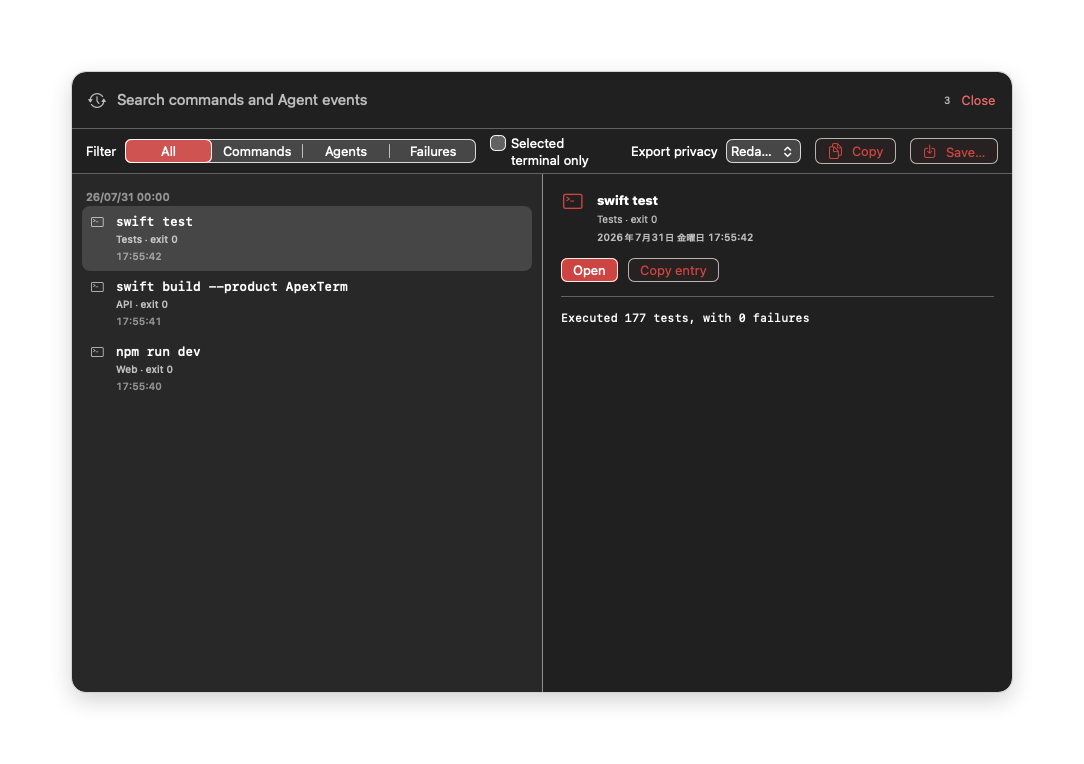
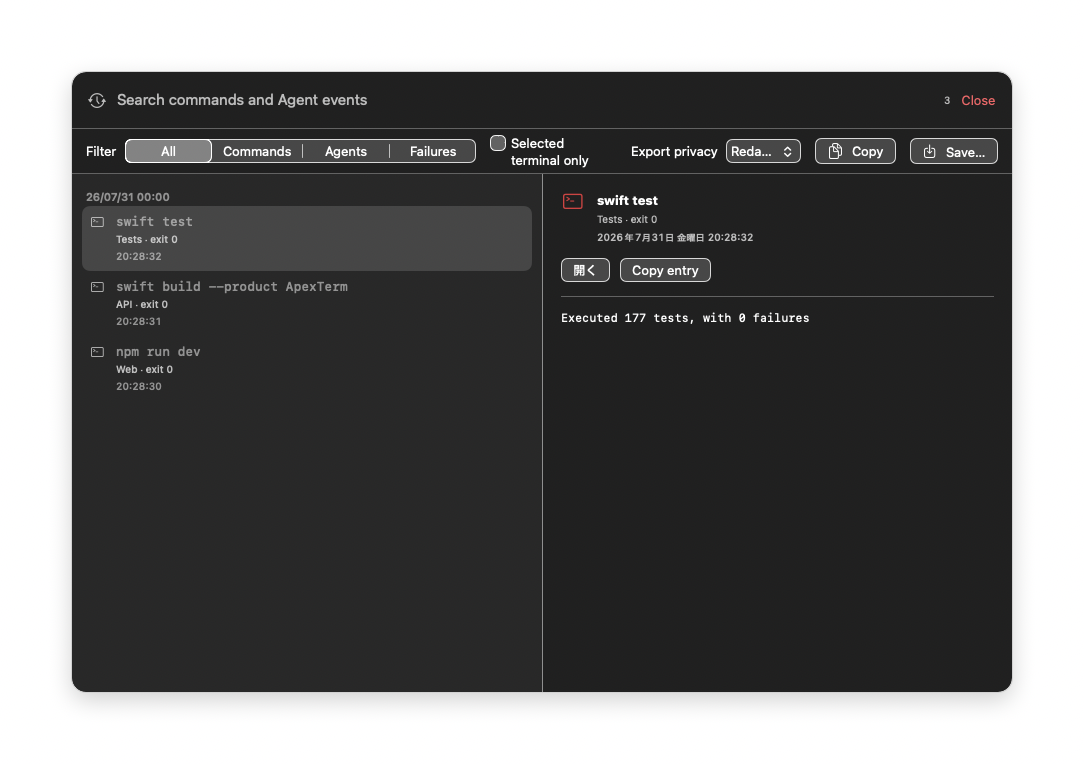
fix: stabilize README screenshot presentation

diff --git a/Sources/ApexTermApp/RootView.swift b/Sources/ApexTermApp/RootView.swift
@@ -2979,8 +2979,6 @@ struct RootView: View {
         let screenshotAppearance = ApexInterfaceAppearance(
             rawValue: environment["APEXTERM_README_SCREENSHOT_APPEARANCE"] ?? "dark"
         ) ?? .dark
-        model.interfaceAppearance = screenshotAppearance
-        model.interfaceAccentColorHex = nil
         let appKitAppearance = NSAppearance(
             named: screenshotAppearance == .light ? .aqua : .darkAqua
         )
@@ -3063,6 +3061,13 @@ struct RootView: View {
         }
 
         try? await Task.sleep(for: .milliseconds(scene == "overview" ? 900 : 1_300))
+        if scene == "overview" || scene == "compact" {
+            mainWindow?.setContentSize(contentSize)
+            mainWindow?.center()
+            mainWindow?.displayIfNeeded()
+            mainWindow?.contentView?.layoutSubtreeIfNeeded()
+            try? await Task.sleep(for: .milliseconds(250))
+        }
         let screenshotWritten = environment["APEXTERM_README_SCREENSHOT_OUTPUT_FILE"]
             .map(writeReadmeScreenshot(to:)) ?? false
         let result = [
